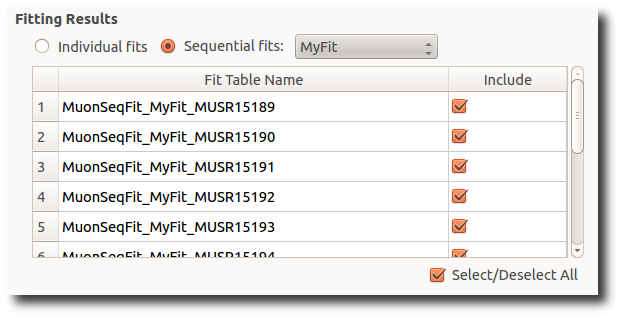
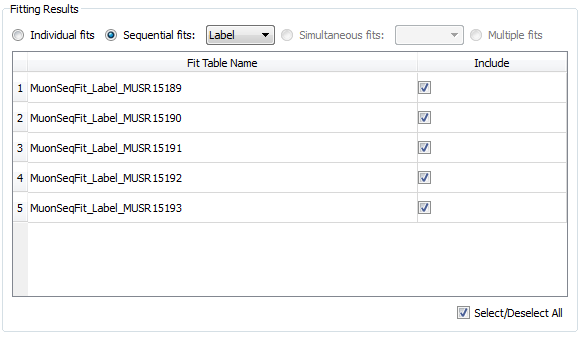
Update images for documentation
re #15518

Changed region(s): [[0.0, 0.0, 1.0, 0.9906]]

diff --git a/docs/source/interfaces/Muon_Analysis.rst b/docs/source/interfaces/Muon_Analysis.rst
@@ -265,7 +265,7 @@ Data Analysis
 This tab is designed for the user to make a fit against the data just plotted.
 Since Mantid 3.8, this tab has been enhanced to include fits of multiple datasets at once.
 
-.. image::  ../images/MuonAnalysisDataAnalysis.png
+.. image::  ../images/MuonAnalysisDataAnalysis3.8.png
    :align: right
 
 Fit Function
@@ -465,6 +465,7 @@ Fitted parameters of the selected workspaces will be added to the results table.
 
 Workspaces might be coloured differently. Workspaces of different colours have
 different fitting models and therefore couldn't be included in the same Results table.
+(If looking at simultaneous fits, different colours could also indicate that the fits had different numbers of datasets).
 
 .. image:: ../images/MuonAnalysis_FittingResultsColors.png
   :align: center
